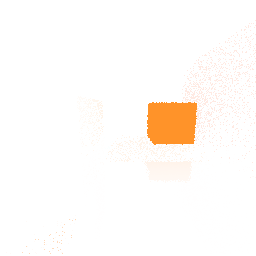
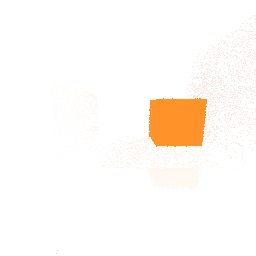
Changed to a stack based shader algorithm

Changed region(s): [[0.5625, 0.0625, 1.0, 0.5938], [0.9375, 0.5625, 1.0, 0.5938]]

diff --git a/src/bin.rs b/src/bin.rs
@@ -675,80 +675,58 @@ uint get_voxel_child(uint voxelptr, uint childindex){
     }
 }
 
+const uint stacksize = 16;
+
+struct StackFrame {
+    vec3 location;
+    float size;
+    uint node;
+    uint subnode;
+};
 
 RayTarget cast_ray_voxel(vec3 start, vec3 dir, uint root, float specular) {
     float size = 1.0;
-    uint[8] activenodes;
-    activenodes[0]=root;
-    vec3[8] nodelocations;
-    nodelocations[0]=vec3(0.0);
 
     RayTarget closestleaf = RayTarget(vec3(0.0),vec3(0.0),vec3(0.0),vec3(0.0),0.0,0.0,0);
     closestleaf.t = FLT_MAX;
 
-    uint count = 1;
-    while(count > 0) {
+    StackFrame[stacksize] frames;
+    int stackindex = -1;
 
-        RayTarget[8] targets;
-        for(uint i=0; i < 8; i++) {
-            targets[i].t = FLT_MAX;
-        }
+    RayTarget h = cast_ray_v_box(start - vec3(0.0), dir, size, vec3(0.0), root, dir, specular);
 
-        for(uint i=0; i < count; i++) {
-            targets[i]=cast_ray_v_box(start - nodelocations[i], dir, size, nodelocations[i], activenodes[i], dir, specular);
-        }
+    if(h.t < FLT_MAX && h.t > 0){
+        stackindex++;
+        frames[stackindex] = StackFrame(vec3(0.0), size, root, 0);
+	  }
 
-        count=0;
+    while(stackindex >= 0) {
+		    int i = stackindex;
+        if(frames[i].subnode > 7){
+			      stackindex--;
+            continue;
+		    }
+        uint child = 1 << frames[i].subnode;
+        if((get_voxel_childmask(frames[i].node) & child) != 0) {
+            vec3 loc = frames[i].location + (oct_byte_to_vec(child) * frames[i].size / 2.0);
+            uint childnode = get_voxel_child(frames[i].node, frames[i].subnode);
+            RayTarget hit = cast_ray_v_box(start - loc, dir, frames[i].size / 2.0, loc, childnode, dir, specular);
 
-        #define CMP(x, y) (targets[x].t > targets[y].t)
-        #define SWAP(x, y) RayTarget tar = targets[x]; targets[x] = targets[y]; targets[y] = tar;
-        #define CSWAP(x, y) if(CMP(x, y)){SWAP(x, y)}
-
-/* sort
-[[0,1],[2,3],[4,5],[6,7]]
-[[0,2],[1,3],[4,6],[5,7]]
-[[1,2],[5,6],[0,4],[3,7]]
-[[1,5],[2,6]]
-[[1,4],[3,6]]
-[[2,4],[3,5]]
-[[3,4]]
-*/
-
-        CSWAP(0,1) CSWAP(2,3) CSWAP(4,5) CSWAP(6,7)
-        CSWAP(0,2) CSWAP(1,3) CSWAP(4,6) CSWAP(5,7)
-        CSWAP(1,2) CSWAP(5,6) CSWAP(0,5) CSWAP(3,7)
-        CSWAP(1,5) CSWAP(2,6)
-        CSWAP(1,4) CSWAP(3,6)
-        CSWAP(2,4) CSWAP(3,5)
-        CSWAP(3,4)
-
-        for(uint h = 0; h < targets.length(); h++){
-        RayTarget hit = targets[h];
-        if (hit.t < FLT_MAX) {
-            if ((get_voxel_flags(hit.node) & 1) != 0 && hit.t < closestleaf.t) {
-                closestleaf = hit;
-            } else {
-                uint newcount= count;
-                uint[8] newnodes;
-                vec3[8] newlocations;
-                for(uint i=0; i < 8; i++) {
-                    uint child = 1 << i;
-
-                    if((get_voxel_childmask(hit.node) & child) != 0) {
-                        newlocations[newcount] = + hit.nodelocation + (oct_byte_to_vec(child) * size / 2.0);
-                        newnodes[newcount]= get_voxel_child(hit.node, i);
-                        newcount++;
-                    }
+            if(hit.t > 0 && hit.t < FLT_MAX){
+                if((get_voxel_flags(childnode) & 1) != 0 && hit.t > 0 && hit.t < closestleaf.t){
+                    closestleaf = hit;
+                } else if(get_voxel_childmask(childnode) != 0){
+					          stackindex++;
+                    frames[stackindex] = StackFrame(loc, frames[i].size / 2.0, childnode, 0);
                 }
-                activenodes=newnodes;
-                nodelocations= newlocations;
-                count=newcount;
             }
-        }}
+        }
+		frames[i].subnode++;
 
-        size /= 2.0;
+		if(stackindex >= stacksize){
+			stackindex--;
+		}
     }
-
     return closestleaf;
 }
 
